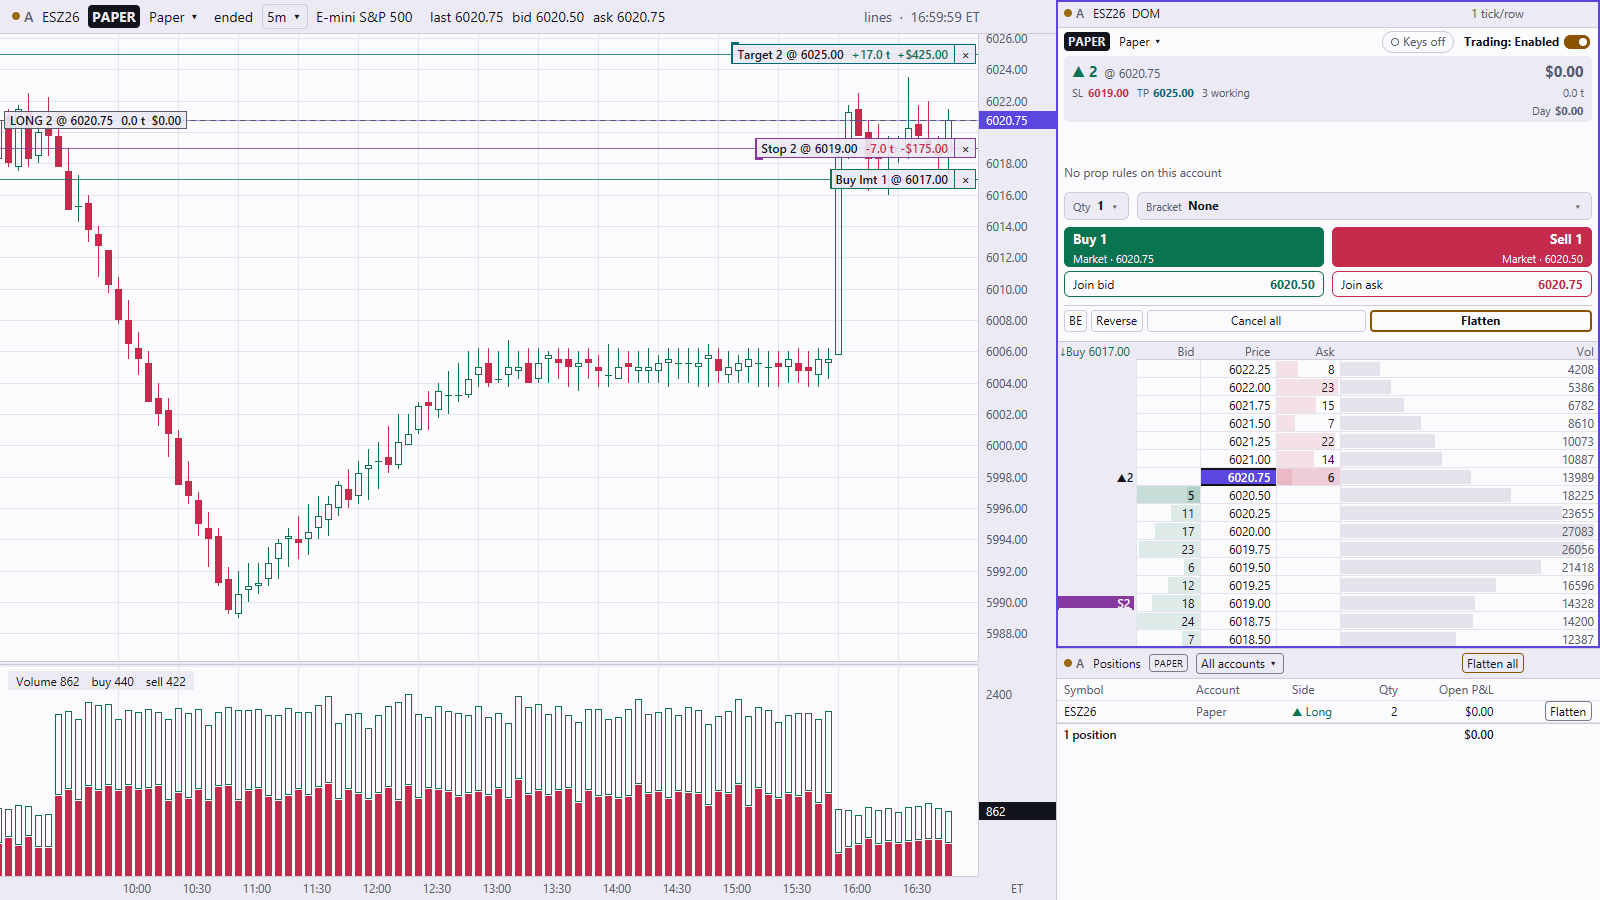
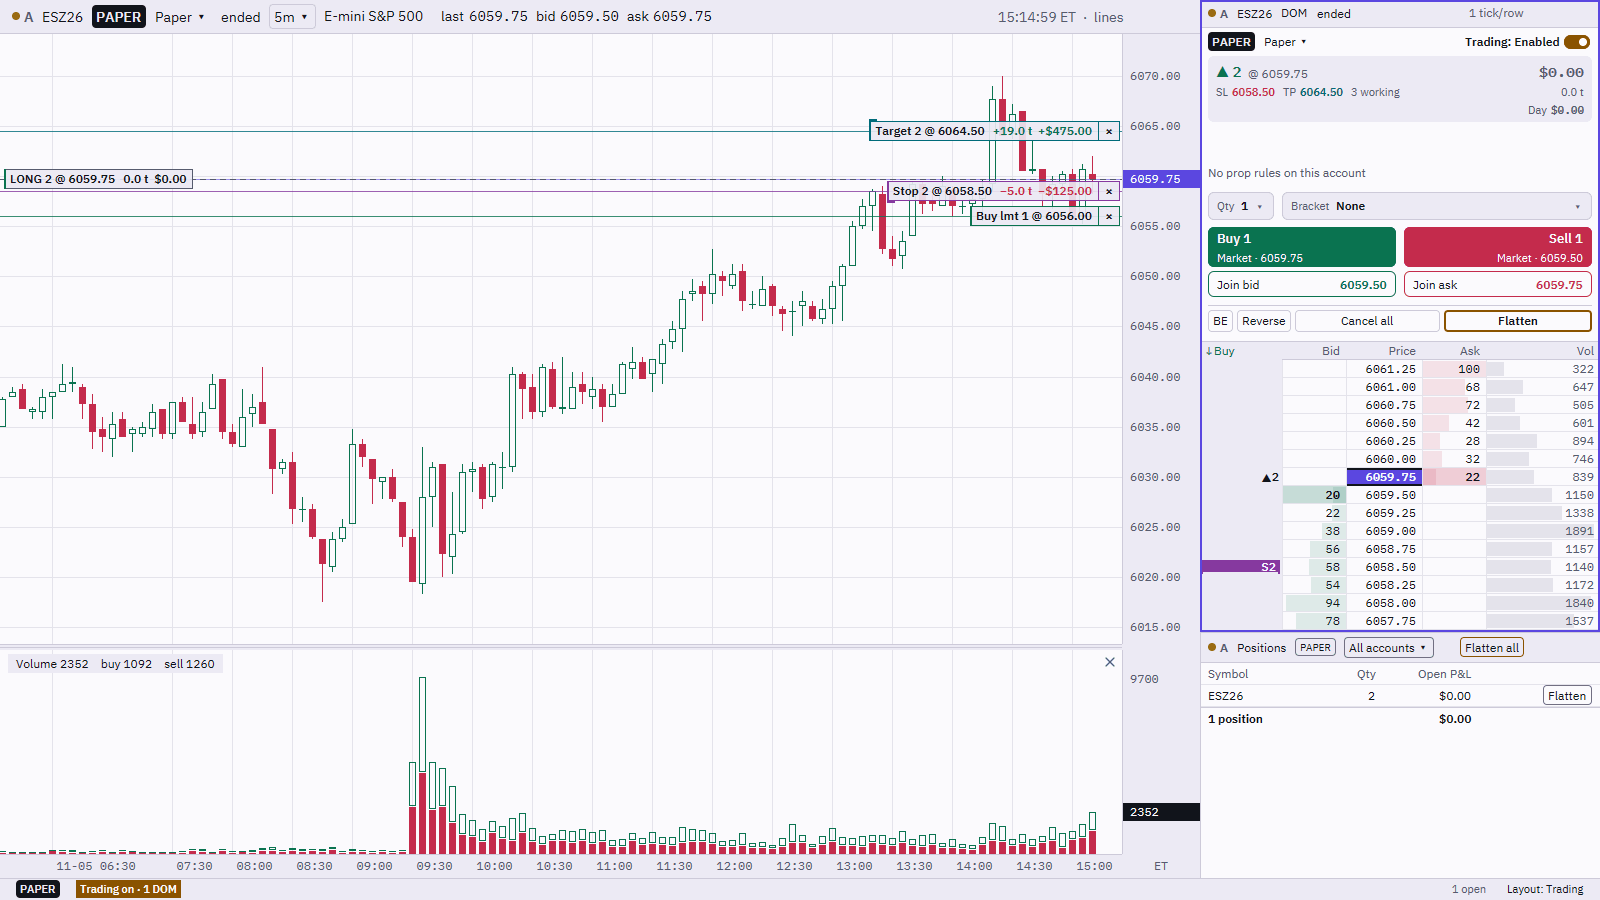
README images from synth_natural sessions, narrower DOM
Regenerated chart-orders-footprint.png, light.png and tick-chart.png from
synth_natural (seed 7, --depth) at 15:15 ET on the second session, with
the DOM column a quarter of the window (outer split 0.75) and the
workspace named Trading. The recipe in docs/architecture.md reproduces
them byte for byte.

diff --git a/docs/architecture.md b/docs/architecture.md
@@ -120,13 +120,14 @@ cargo run -p lines-app --features screenshot -- --replay recordings/x.lfr \
 # --show-recording SECS shows the footer as if recording for SECS seconds (REC, the time, Stop recording; nothing is recorded).
 # --cursor X,Y adds a fixed pointer (logical px from the plot's top-left) to show the crosshair; --magnet snaps it to OHLC.
 # README images (docs/img/): synthetic data only (decision 0010); workspaces in docs/img/*.json:
-#   cargo run -p lines-feed --example synth_session -- recordings/synth.lfr --depth
-#   P="buy 2 @ 6021.00 bracket 8/16; ack; buy 1 @ 6017.00; ack"
+#   cargo run --release -p lines-feed --example synth_natural -- recordings/nat7.lfr --seed 7 --depth
+#   AT=2026-11-05T20:15:00Z   # 15:15 ET on the second session
+#   P="buy 2 @ 6060.50 bracket 8/16; ack; buy 1 @ 6056.00; ack"
 #   (`lines` here is a `--features screenshot` build; release binaries can't take screenshots)
-#   lines --replay recordings/synth.lfr --workspace docs/img/footprint-trading.json --size 1600x900 --theme dark --paper "$P" --enable-trading --screenshot hero.png
-#   lines --replay recordings/synth.lfr --workspace docs/img/trading-5m.json --size 1600x900 --theme light --paper "$P" --enable-trading --volume split --screenshot light.png
+#   lines --replay recordings/nat7.lfr --at $AT --workspace docs/img/footprint-trading.json --size 1600x900 --theme dark --paper "$P" --enable-trading --screenshot hero.png
+#   lines --replay recordings/nat7.lfr --at $AT --workspace docs/img/trading-5m.json --size 1600x900 --theme light --paper "$P" --enable-trading --volume split --screenshot light.png
 #   (tick.png needs a `--features screenshot,demo-levels` build)
-#   lines --replay recordings/synth.lfr --layout chart --timeframe 500t --vwap "eth/1,2" --demo-levels --shift-drag 840,570:990,300 --size 1200x700 --theme dark --screenshot tick.png
+#   lines --replay recordings/nat7.lfr --at $AT --layout chart --timeframe 500t --vwap "eth/1,2" --demo-levels --shift-drag 700,520:900,250 --size 1200x700 --theme dark --screenshot tick.png
 #   then quantize each (hero → chart-orders-footprint.png, light → light.png, tick → tick-chart.png):
 #   magick hero.png -strip +dither -colors 256 PNG8:docs/img/chart-orders-footprint.png
 # Colours: --theme dark|light|system, --palette standard|cb (colourblind: blue up, orange down; both the dark
